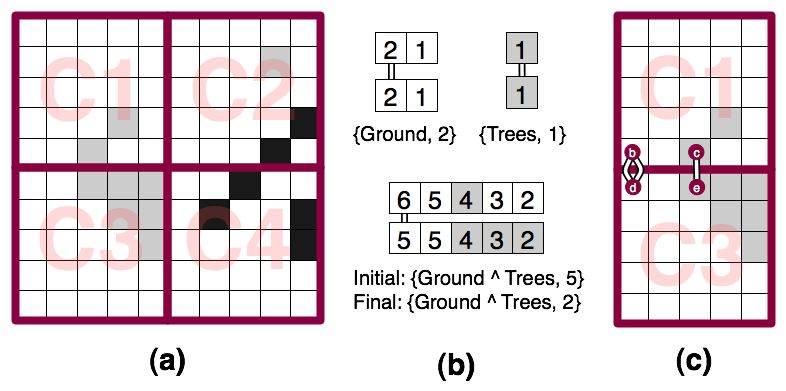
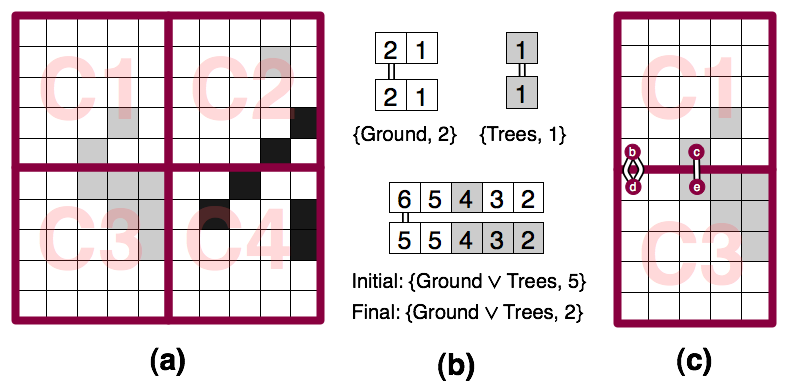
diagram updates updated cluster abstraction section (revisions; better explanations)

diff --git a/papers/mapabstraction.tex b/papers/mapabstraction.tex
@@ -5,24 +5,18 @@ Instead of planning every step, we would prefer to express a more general strate
 We will achieve this by starting from the off-line decomposition technique described in \cite{botea04} and extending it to deal with large agents and multiple terrains. 
 Our result from theorem {\ref{aha-theorem:reducibility} is key to the spatial abstraction described in this section. 
 \par \indent
-The general process in \cite{botea04} involves dividing a grid map into \emph{clusters} and \emph{entrances}. 
-In that work, a \emph{cluster} is a subset of the original grid map which results when the map is divided into a set of adjacent sections. Meanwhile, an \emph{entrance} is a contiguous area (ie. obstacle free) between two adjacent lines of tiles $l1$ and $l2$ that represent the border of two clusters $c_{l1}$ and $c2_{l2}$. 
-If obstacles exist along the border between two clusters, several entrances may be created.
+The general process in \cite{botea04} involves dividing a grid map into \emph{clusters} and a corresponding set of transition areas called \emph{entrances}. 
+A  cluster is a subset of the original grid map which results when the map is divided into a set of fixed-size square sections. 
+Figure \ref{aha-fig:clustersandentrances}(a) shows the result of this decomposition approach; we use clusters of size 5 to split our toy map into 4 adjacent sections.
+In the original work entrances are obstacle-free transition areas which exist along the border area between adjacent pairs of clusters. They are extended until an obstacle is encountered or the end of the common border area is reached. 
+Once an entrance is identified, transition points are selected at key locations along the entrance area and represented in the abstract graph by a pair of nodes connected by an undirected \emph{inter-edge} of weight 1.0. 
 \par \indent
-In figure \ref{aha-fig:clustersandentrances}(a) we show the result of a simple division using a fixed-size square cluster approach. In this case, our toy map is divided into 4 adjacent clusters. 
-Building entrances is likewise straightforward. 
-We must scan the border of every cluster where it is adjacent to another in order to determine if one is reachable from the other. 
-In the original work, once an entrance is identified, transitions are created between the clusters by adding a pair of connected nodes to the abstract graph to represent key locations along the entrance area. 
-In our case, we choose as the transition point the pair of nodes which maximise the clearance value for a given capability. 
-We compute this latter metric by taking the minimum clearance among each node pair in the entrance area and selecting the largest value from the resultant set. 
+Our approach differs by requiring as parameters $C$, the set of all capabilities, and $S$, the set of all agent sizes that will be traversing the map. We thus begin by attempting to identify entrances $\forall c \in C$. Once found, we choose as the transition point the first pair of adjacent nodes which maximise clearance. We compute this latter metric by taking the minimum clearance among each node pair in the entrance area and selecting the largest value from the set. The resultant inter-edge $e_{inter}$ is annotated such that $e_{inter}(c) = cv$. If $e_{inter}(c) = cv > max(s) \in S$, we truncate the clearance value such that $e_{inter}(c) = max(s)$. As we will see in the following section, this step is important for keeping the size of the graph to a minimum.
 \par \indent
-We proceed in this way and scan the entrance area for transitions for each available capability. 
-When a maximally sized transition is located, we annotate the resultant abstract edge with the newly discovered clearance value and the capability used to find it.
-Figure \ref{aha-fig:clustersandentrances}(b) and (c) highlight the entrance-building process. 
-In \ref{aha-fig:clustersandentrances}(b) we present three entrances identified by scanning the border between clusters $c1$ and $c3$.
-Entrances \emph{E1} and \emph{E2} are discovered using single-terrain capabilities, while \emph{E3}, which spans the whole border area, is discovered using a more complex multi-terrain capability. 
+In figure \ref{aha-fig:clustersandentrances}(b) we present three entrances identified by scanning the border between clusters $c1$ and $c3$.
+Entrances \emph{E1} and \emph{E2}, each of which span only part of the border area, are discovered using $\lbrace Ground \rbrace$ and $\lbrace Trees \rbrace$ capabilities. \emph{E3} meanwhile, which spans the whole border area, is discovered using the more complex $\lbrace Ground \vee Trees \rbrace$ capability. 
 The connected tiles represent the locations of the subsequent transition points; the final result is shown in \ref{aha-fig:clustersandentrances}(c). 
-Note that \emph{E1} and \emph{E3} are incident on the same pair of nodes in the abstract graph since our strategy involves actively attempting to re-use any existing nodes from the abstract graph. 
+Note that \emph{E1} and \emph{E3} are incident on the same pair of nodes in the abstract graph. This is due to our  strategy of actively attempting to re-use any existing nodes from the abstract graph. 
 We thus produce an abstract \emph{multi-graph}.
 
 \begin{figure}[htbp]
@@ -33,16 +27,17 @@ We thus produce an abstract \emph{multi-graph}.
         \label{aha-fig:clustersandentrances}
 \end{figure}
 
-We do not need to add any annotations to our abstract nodes; it is sufficient to define the length and traversal requirements of the \emph{corridor} connecting them. We define a corridor as a set of connected traversable nodes in the grid environment which connect a pair of locations. The length of a corridor is the sum of the traversal costs of all the nodes in the corridor set. A corridor is associated with a particular capability which must include the terrain type of every node in the corridor set. 
-The width of a corridor is thus given by the minimum clearance value for some given capability among all nodes in the corridor set. 
+As per \cite{botea04}, our final step to complete the decomposition involves attempting to connect each pair of abstract nodes identified in each cluster. 
+In our case, we achieve this by using AA* to search for the shortest path between each pair of nodes for each $(c, s)$ where $c \in C$ (the set of all capabilities) and $s \in S$ (the set of all agent sizes that will be traversing the map). We require that the latter be specified up-front when building the abstract graph to limit the combinatorial blow-up that results from trying to reason about the number of shortest paths between two points in complex problem spaces such as ours.
 \par \indent
-Our final step to complete the abstraction involves connecting each abstract node to every other reachable abstract node in the local cluster. 
-We achieve this by using AA* to search for the optimal path between each pair of nodes for all available capabilities and agent sizes. 
-Once a path is found we insert a new undirected edge into the abstract graph to connect the two nodes using the path distance as its cost and annotating it with the capability and clearance parameters used by AA* to find the solution. 
-To avoid edge duplication when pathfinding inside each  cluster we will order from lagest to smallest the set of available agent sizes which we pass as clearance parameters to AA*. 
-We also order the capability parameters we pass to AA* from simplest (those containing the least number of terrains) to most complex (the capability corresponding to the set of all terrains). 
-The intuition here is that if an optimal length corridor exists between two nodes we would like to re-use it instead of adding more edges to the graph. This is an instance of edge dominance, a concept we will discuss shortly.
-We thus present our complete map decomposition approach in  Algorithm \ref{aha-alg:buildabstraction}.
+Once a path is found we insert a new undirected \emph{intra-edge} into the abstract graph to connect the two nodes using the path distance as its weight and annotating it with the capability and clearance parameters used by AA*. 
+To limit the number of inter-edges we add to the abstract graph we will order from lagest to smallest the members of $S$. 
+We also order the members of $C$ from simplest (those capabilities containing the least number of terrains) to most complex (the capability corresponding to the set of all terrains). 
+\par \indent
+The intuition here is that if an inter-edge with large clearance represents the optimal length path between two nodes we would like to re-use it instead of discovering other edges with the same weight and capability using a smaller agent size. This is an instance of edge dominance, a concept we will discuss shortly.
+We term the resultant graph a \emph{high-quality abstraction} and present our complete decomposition approach in  algorithm \ref{aha-alg:buildabstraction}.
+\par \indent
+The result of this approach is highlighted in figure \ref{aha-fig:abstractgraph}(a), where we show the 13 identified intra-edges and their annotations for the pair of clusters from the previous example. In figure \ref{aha-fig:abstractgraph}(c) we can see the complete graph for our running example; we were able to represent a 2-terrain map with 100 nodes and 350 edges using just 13 nodes and  23 edges. 
 
 \input algorithms/alg_buildabstraction
 
@@ -56,12 +51,12 @@ A \emph{dominance relationship} is said to exist between two annotated edges whe
 
 The idea is simple: if two nodes are connected by multiple edges with overlapping traversal requirements we prefer to keep the edge with the largest clearance and most general capability (ie. involving fewer terrains), irrespective of comparative differences in length. A reasonable analogy we could draw at this point is to compare the way off-road vehicles opportunistically use roads where possible even if an off-road route (or trail) might exist which has a smaller distance cost. We prefer roads because are smoother to drive on and have other benefits such less wear and tear, better fuel consumption per kilometer ratio and so on. Of course, opting for a lower-quality abstraction in this way does have an effect on the quality of the computed solutions, but as we will show in our experimental analysis, the differences are reasonably small and the solutions still near-optimal for our test data. The best choice here depends on the requirements of the specific application to which the algorithm is applied; it is a classic tradeoff between performance vs space.
 
-Figure \ref{aha-fig:abstractgraph} shows the results of our abstraction technique on the toy map presented earlier. In \ref{aha-fig:abstractgraph}c we show the final abstraction result; we were able to represent a 2-terrain map with 100 nodes and 350 edges using just 13 nodes and  23 edges. In \ref{aha-fig:abstractgraph}d we show a low-quality abstraction. In this trival example we could only reduce the abstract edge count by 2 (in cluster \emph{C1}) but this is an atypical result as we will later demonstrate.
+In \ref{aha-fig:abstractgraph}d we show a low-quality abstraction. In this trival example we could only reduce the abstract edge count by 2 (in cluster \emph{C1}) but this is an atypical result as we will later demonstrate.
 
 \begin{figure}[htbp]
-        \caption{\emph{Entrance Building Examples} }
+        \caption{\emph{High and low quality abstraction results} }
         \begin{center}
-                        \includegraphics[scale=0.25]{diagrams/clusters_and_entrances.png}
+                        \includegraphics[scale=0.25]{diagrams/abstraction_result.png}
         \end{center}
         \label{aha-fig:abstractgraph}
 \end{figure}

diff --git a/papers/ahastar.tex b/papers/ahastar.tex
@@ -42,8 +42,6 @@
       \vrule height0.75em width0.5em depth0.25em\fi}
 
 
-\newcommand{\algorithmicfunction}{\textbf{Function:}}
-
 \title{Hierarchical path planning for multi-size agents in heterogenous environments}
 \author{Daniel Harabor \and Adi Botea \\ u4272656 at anu.edu.au \\ adi.botea at nicta.com.au}
 
